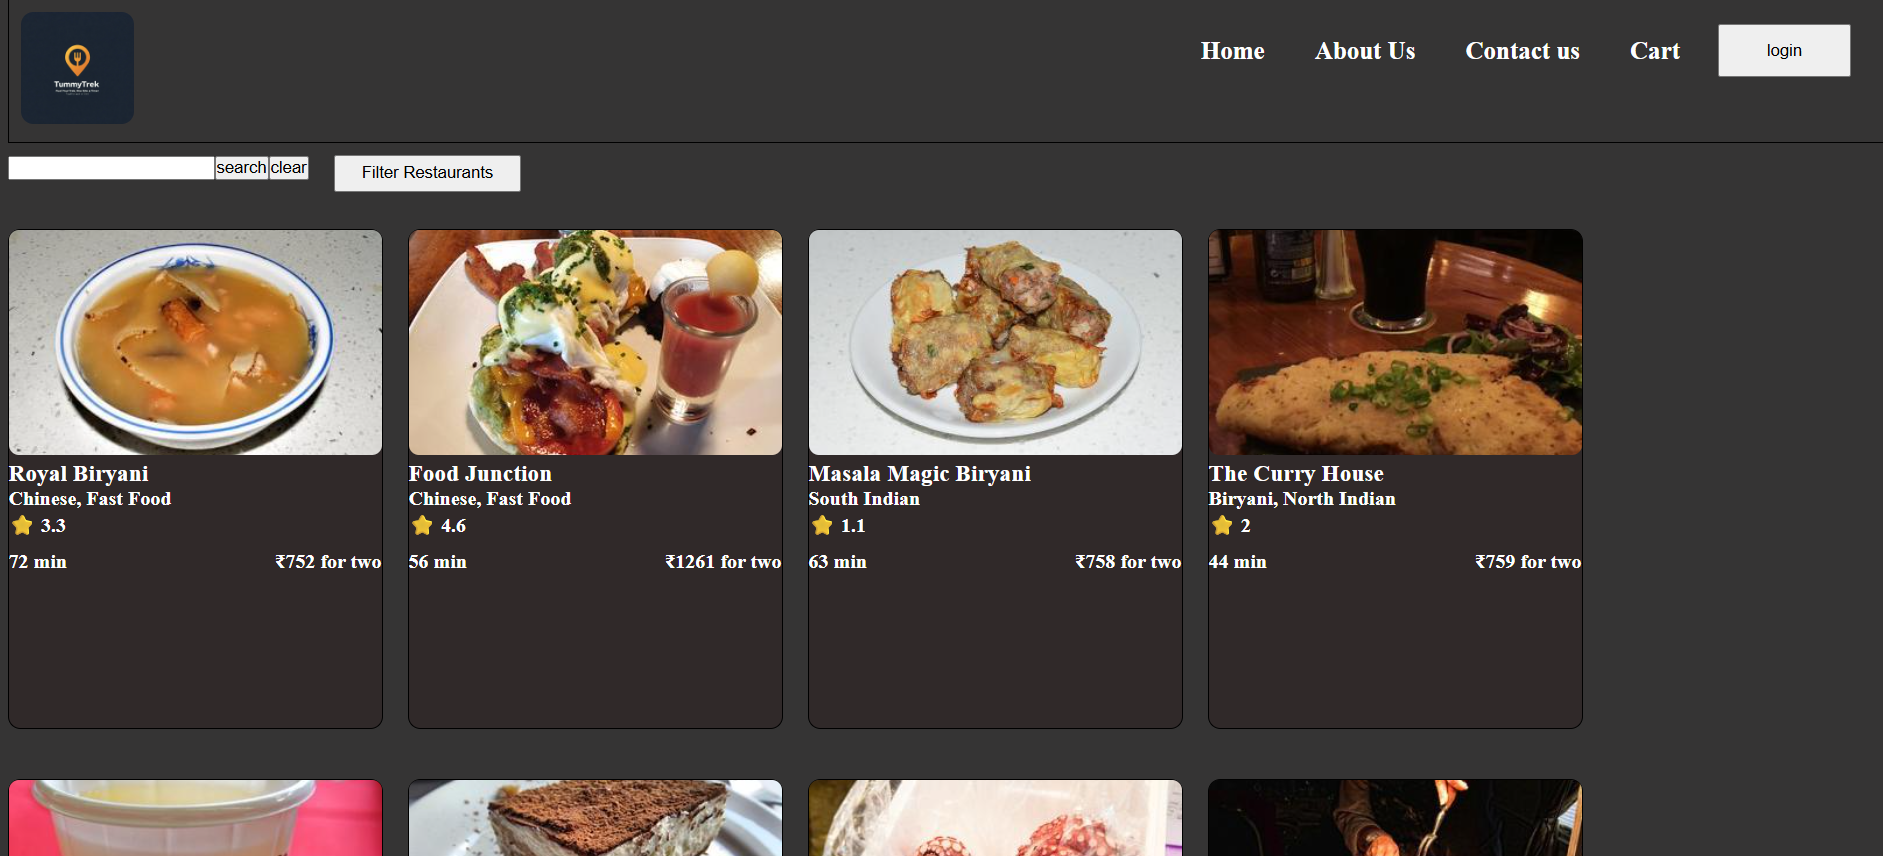
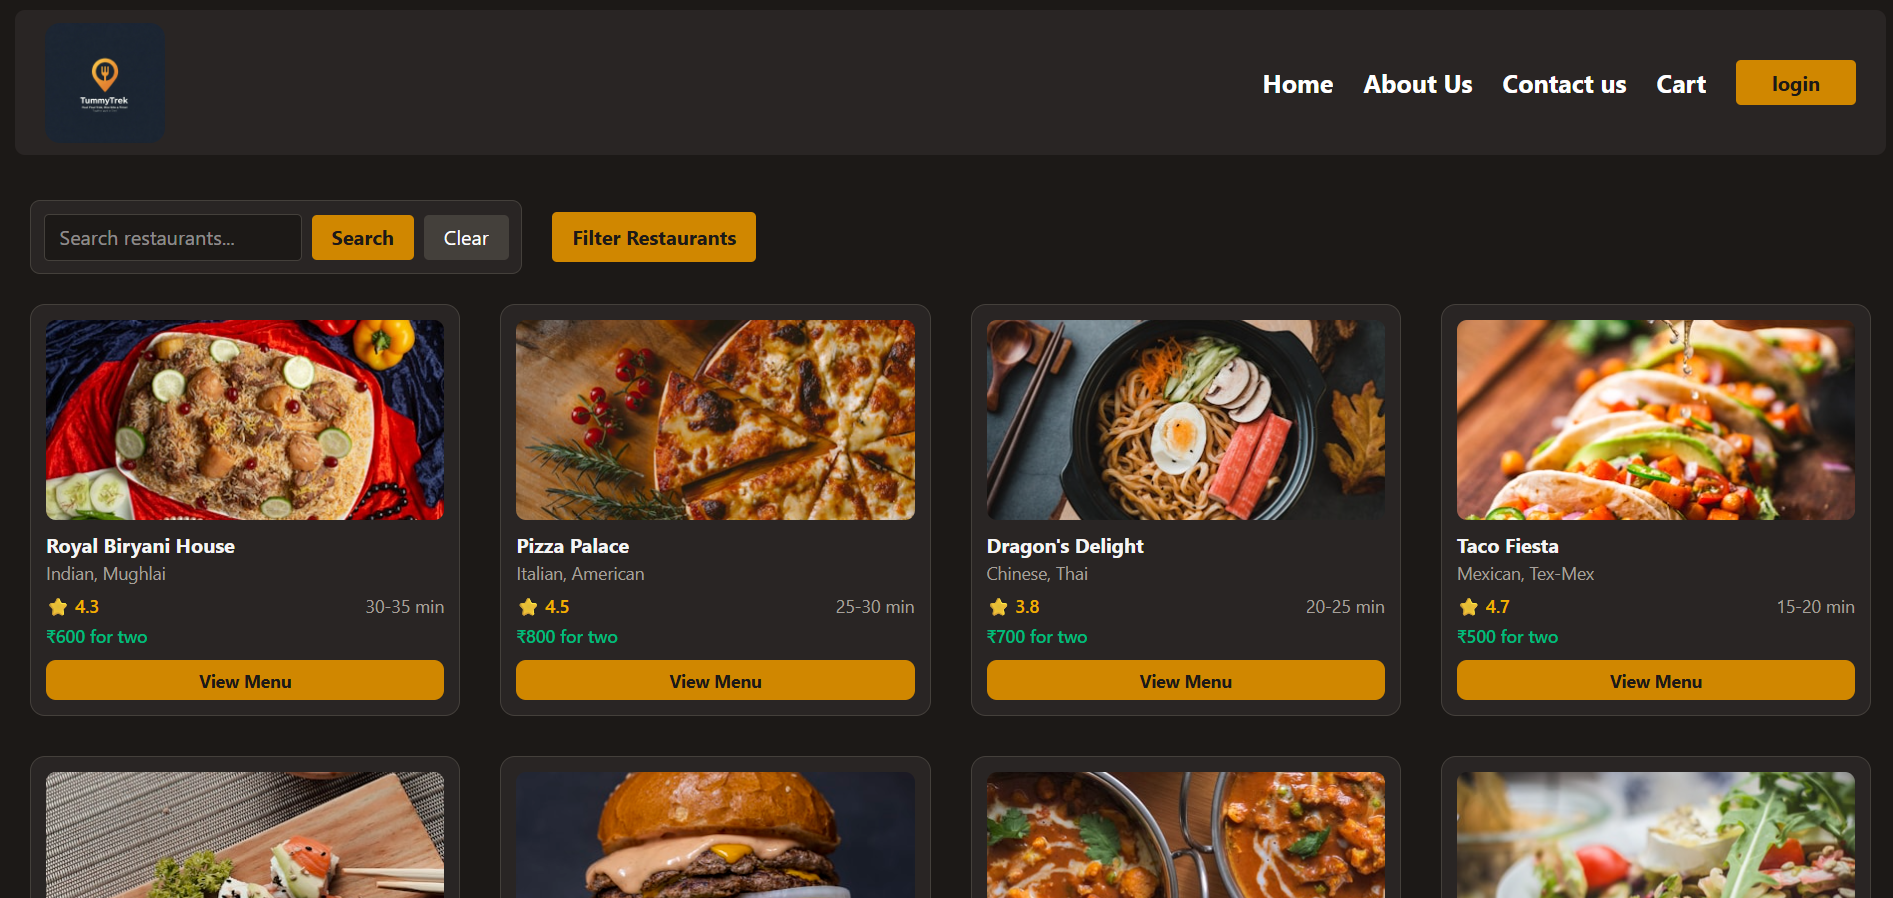
skill section fixed

diff --git a/src/Pages/Skills.jsx b/src/Pages/Skills.jsx
@@ -1,7 +1,98 @@
+import { skillsData } from '../utils/skillsData';
 const Skills = () => {
   return (
+    // <section className="min-h-screen pt-32 pb-20">
+    //   <div className="max-w-6xl mx-auto px-8">
+    //     <div className="space-y-4">
+    //       <p className="text-base font-medium uppercase tracking-[0.15em] text-slate-300">
+    //         Skills
+    //       </p>
+
+    //       <h1 className="text-2xl md:text-3xl font-medium leading-relaxed md:leading-relaxed max-w-2xl">
+    //         Technologies and tools I use to build modern, scalable, and
+    //         user-focused digital experiences.
+    //       </h1>
+    //     </div>
+    //     <div className="grid grid-cols-1 md:grid-cols-3 gap-6 md:gap-8 max-w-5xl pt-12 md:pt-20">
+    //       <div className="bg-slate-900/30 border border-slate-800 rounded-2xl p-6 space-y-6">
+            
+    //         <h2 className="text-xl font-medium">Frontend</h2>
+
+    //         <div className="flex flex-wrap gap-3">
+    //           <span className="bg-slate-900/40 border border-slate-800 rounded-full px-4 py-2 text-sm text-slate-300">
+    //             React
+    //           </span>
+
+    //           <span className="bg-slate-900/40 border border-slate-800 rounded-full px-4 py-2 text-sm text-slate-300">
+    //             JavaScript
+    //           </span>
+    //            <span className="bg-slate-900/40 border border-slate-800 rounded-full px-4 py-2 text-sm text-slate-300">
+    //             HTML
+    //           </span>
+
+    //           <span className="bg-slate-900/40 border border-slate-800 rounded-full px-4 py-2 text-sm text-slate-300">
+    //             Tailwind CSS
+    //           </span>
+    //           <span className="bg-slate-900/40 border border-slate-800 rounded-full px-4 py-2 text-sm text-slate-300">
+    //             Bootstrap
+    //           </span>
+
+
+    //           <span className="bg-slate-900/40 border border-slate-800 rounded-full px-4 py-2 text-sm text-slate-300">
+    //             CSS
+    //           </span>
+    //         </div>
+    //       </div>
+
+    //       <div className="bg-slate-900/30 border border-slate-800 rounded-2xl p-6 space-y-6">
+    //         <h2 className="text-xl font-medium">Tools</h2>
+
+    //         <div className="flex flex-wrap gap-3">
+    //           <span className="bg-slate-900/40 border border-slate-800 rounded-full px-4 py-2 text-sm text-slate-300">
+    //             Git
+    //           </span>
+
+    //           <span className="bg-slate-900/40 border border-slate-800 rounded-full px-4 py-2 text-sm text-slate-300">
+    //             GitHub
+    //           </span>
+
+    //           <span className="bg-slate-900/40 border border-slate-800 rounded-full px-4 py-2 text-sm text-slate-300">
+    //             Vite
+    //           </span>
+
+    //           <span className="bg-slate-900/40 border border-slate-800 rounded-full px-4 py-2 text-sm text-slate-300">
+    //             Figma
+    //           </span>
+    //         </div>
+    //       </div>
+
+    //       <div className="bg-slate-900/30 border border-slate-800 rounded-2xl p-6 space-y-6">
+    //         <h2 className="text-xl font-medium">Currently Exploring</h2>
+
+    //         <div className="flex flex-wrap gap-3">
+    //           <span className="bg-slate-900/40 border border-slate-800 rounded-full px-4 py-2 text-sm text-slate-300">
+    //             Node.js
+    //           </span>
+
+    //           <span className="bg-slate-900/40 border border-slate-800 rounded-full px-4 py-2 text-sm text-slate-300">
+    //             Backend Development
+    //           </span>
+
+    //           <span className="bg-slate-900/40 border border-slate-800 rounded-full px-4 py-2 text-sm text-slate-300">
+    //             System Design
+    //           </span>
+    //         </div>
+    //       </div>
+    //     </div>
+    //   </div>
+    // </section>
+
+
+
+
     <section className="min-h-screen pt-32 pb-20">
-      <div className="max-w-6xl mx-auto px-8">
+      <div className="max-w-4xl mx-auto px-8">
+        {/* Section Header */}
         <div className="space-y-4">
           <p className="text-base font-medium uppercase tracking-[0.15em] text-slate-300">
             Skills
@@ -12,80 +103,35 @@ const Skills = () => {
             user-focused digital experiences.
           </h1>
         </div>
-        <div className="grid grid-cols-1 md:grid-cols-3 gap-6 md:gap-8 max-w-5xl pt-12 md:pt-20">
-          <div className="bg-slate-900/30 border border-slate-800 rounded-2xl p-6 space-y-6">
-            
-            <h2 className="text-xl font-medium">Frontend</h2>
 
-            <div className="flex flex-wrap gap-3">
-              <span className="bg-slate-900/40 border border-slate-800 rounded-full px-4 py-2 text-sm text-slate-300">
-                React
-              </span>
+        {/* Skills Grid - Maps through skillsData */}
+        <div className="grid grid-cols-1 md:grid-cols-2 gap-6 md:gap-8 max-w-6xl pt-12 md:pt-20">
+          {skillsData.map((skillCategory, index) => (
+            <div
+              key={index}
+              className="bg-slate-900/30 border border-slate-800 rounded-2xl p-6 space-y-6"
+            >
+              <h2 className="text-xl font-medium text-slate-100">
+                {skillCategory.category}
+              </h2>
 
-              <span className="bg-slate-900/40 border border-slate-800 rounded-full px-4 py-2 text-sm text-slate-300">
-                JavaScript
-              </span>
-               <span className="bg-slate-900/40 border border-slate-800 rounded-full px-4 py-2 text-sm text-slate-300">
-                HTML
-              </span>
-
-              <span className="bg-slate-900/40 border border-slate-800 rounded-full px-4 py-2 text-sm text-slate-300">
-                Tailwind CSS
-              </span>
-              <span className="bg-slate-900/40 border border-slate-800 rounded-full px-4 py-2 text-sm text-slate-300">
-                Bootstrap
-              </span>
-
-
-              <span className="bg-slate-900/40 border border-slate-800 rounded-full px-4 py-2 text-sm text-slate-300">
-                CSS
-              </span>
+              <div className="flex flex-wrap gap-3">
+                {skillCategory.skills.map((skill, skillIndex) => (
+                  <span
+                    key={skillIndex}
+                    className="bg-slate-900/40 border border-slate-800 rounded-full px-4 py-2 text-sm text-slate-300 hover:bg-slate-800 hover:text-slate-100 transition-colors duration-200"
+                  >
+                    {skill}
+                  </span>
+                ))}
+              </div>
             </div>
-          </div>
-
-          <div className="bg-slate-900/30 border border-slate-800 rounded-2xl p-6 space-y-6">
-            <h2 className="text-xl font-medium">Tools</h2>
-
-            <div className="flex flex-wrap gap-3">
-              <span className="bg-slate-900/40 border border-slate-800 rounded-full px-4 py-2 text-sm text-slate-300">
-                Git
-              </span>
-
-              <span className="bg-slate-900/40 border border-slate-800 rounded-full px-4 py-2 text-sm text-slate-300">
-                GitHub
-              </span>
-
-              <span className="bg-slate-900/40 border border-slate-800 rounded-full px-4 py-2 text-sm text-slate-300">
-                Vite
-              </span>
-
-              <span className="bg-slate-900/40 border border-slate-800 rounded-full px-4 py-2 text-sm text-slate-300">
-                Figma
-              </span>
-            </div>
-          </div>
-
-          <div className="bg-slate-900/30 border border-slate-800 rounded-2xl p-6 space-y-6">
-            <h2 className="text-xl font-medium">Currently Exploring</h2>
-
-            <div className="flex flex-wrap gap-3">
-              <span className="bg-slate-900/40 border border-slate-800 rounded-full px-4 py-2 text-sm text-slate-300">
-                Node.js
-              </span>
-
-              <span className="bg-slate-900/40 border border-slate-800 rounded-full px-4 py-2 text-sm text-slate-300">
-                Backend Development
-              </span>
-
-              <span className="bg-slate-900/40 border border-slate-800 rounded-full px-4 py-2 text-sm text-slate-300">
-                System Design
-              </span>
-            </div>
-          </div>
+          ))}
         </div>
       </div>
     </section>
   );
 };
+
 
 export default Skills;

diff --git a/src/utils/skillsData.jsx b/src/utils/skillsData.jsx
@@ -1,0 +1,45 @@
+export const skillsData = [
+  {
+    category: "Frontend",
+    skills: [
+      "React.js",
+      "JavaScript (ES6+)",
+      "HTML5",
+      "CSS3",
+      "Tailwind CSS",
+      "SASS/SCSS",
+      "Bootstrap",
+      "React Router"
+    ]
+  },
+  {
+    category: "Backend & APIs",
+    skills: [
+      "Node.js",
+      "Express.js",
+      "REST APIs"
+    ]
+  },
+  {
+    category: "Tools & Technologies",
+    skills: [
+      "Git",
+      "GitHub",
+      "VS Code",
+      "Postman",
+      "Parcel",
+      "Webpack",
+      "npm/yarn"
+    ]
+  },
+  {
+    category: "Core Concepts",
+    skills: [
+      "Component Architecture",
+      "Responsive Design",
+      "API Integration",
+      "Performance Optimization",
+      "Mobile-First Design"
+    ]
+  }
+];
